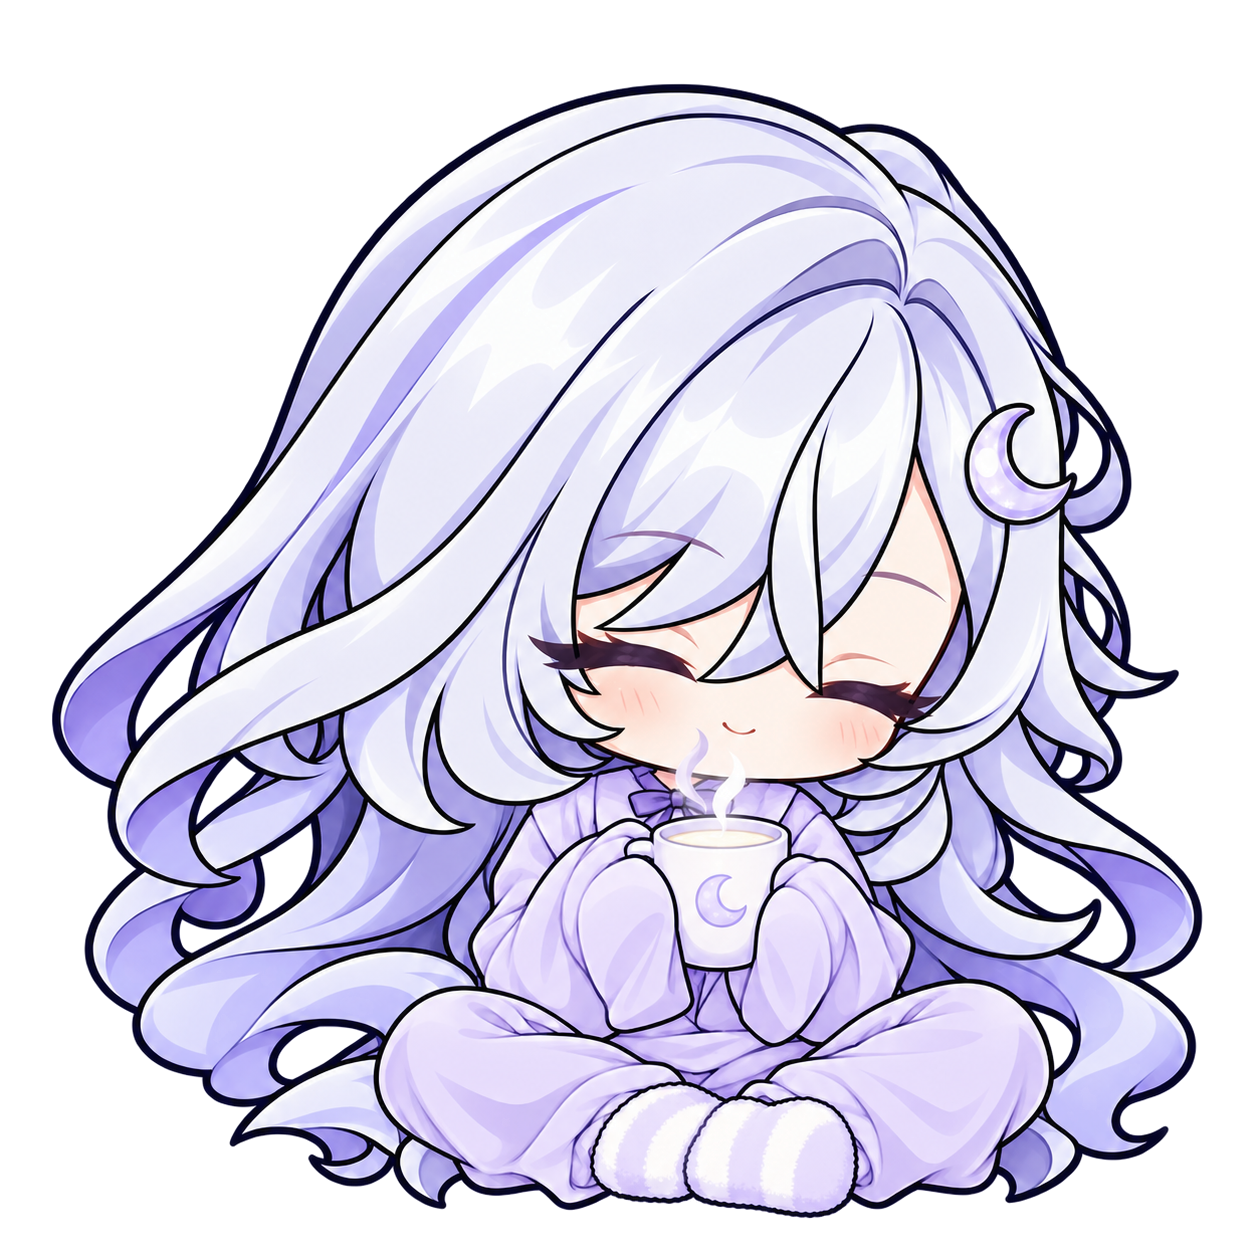
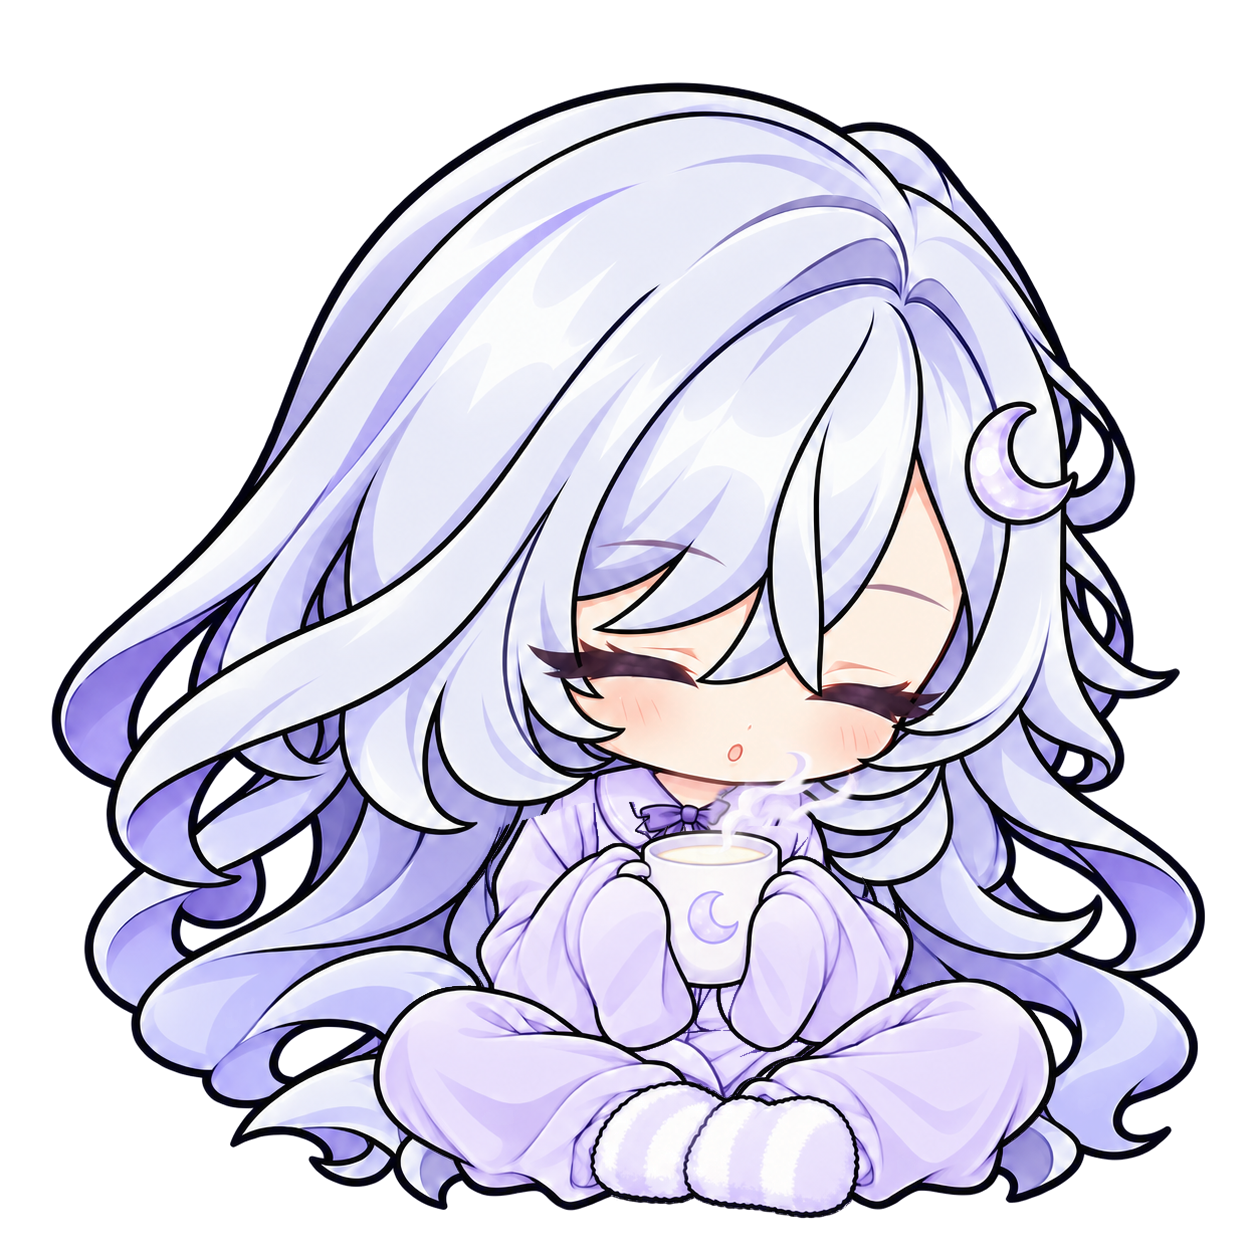
art: animate warm milk from chest-level blow to raised sip

diff --git a/assets/v2_3/GENERATION.md b/assets/v2_3/GENERATION.md
@@ -7,7 +7,7 @@
 - 角色绘制及局部重绘使用imagegen。用户已授权Pillow做局部蒙版合成、alpha清理、基线注册与对比图拼接；没有用程序重画角色。
 - 主参考是实际原始坐着抱膝的 `assets/v1_1/idle.png`，原文件未改。沿用已验收 `night_idle_1` 的银白淡紫卷发、大头比例、靛色描边、淡紫长袖/长裤、毛绒袜、月亮发夹及月亮抱枕。
 - 只有新姿势母图做一次居中/基线注册；派生动画帧不独立缩放或重新居中。
-- 裁剪局部交给imagegen绘制后，按原坐标蒙版合回父图。牛奶热气补丁采用不透明内部裁剪，避免生成器把脸部误当背景挖空；最终PNG仍使用父帧原alpha，是真正透明RGBA。
+- 裁剪局部交给imagegen绘制后，按原坐标蒙版合回父图。2026-10-09牛奶原版曾采用不透明内部热气裁剪；2026-10-10牛奶改为两种独立姿势图层与共用底图，详见末尾当前记录。最终PNG均为真正透明RGBA。
 
 ## 换装与衔接（本次用户要求优先于旧文档）
 
@@ -23,7 +23,7 @@
 | night_idle | 4+眨眼 | 已验收5张不改 |
 | night_yawn | 2 | 袖子掩嘴、轻微张口；保留眼角泪光 |
 | night_sleep | 3 | 侧躺抱枕，呼吸袖褶、Zzz上飘14px、小幅收腿翻身蹭枕头 |
-| night_milk | 2 | 双袖捧杯；第2帧仅热气变化，杯子和手臂不动 |
+| night_milk | 2 | 胸前捧杯嘟嘴吹气→双袖举杯到嘴边小口喝；杯子抬高约130px，脸微抬、热气改为上飘 |
 | night_read | 2+眨眼 | 盖小被子趴着看图画书，后脚轻踢，眨眼只改眼部 |
 | night_goodnight | 2 | 一袖向外举高→整臂向内大幅摆回约43°，另一袖抱枕；星星换位变小 |
 | night_wake | 2 | 起身揉眼，头发微乱，枕头滑到腿上；第2帧袖子/枕头轻动 |
@@ -34,7 +34,7 @@
 
 ## 2026-10-09整套交付时的静态检查
 
-以下为b933221交付检查；2026-10-10重做的晚安两帧以本文末尾的新检查和SHA256为准。
+以下为b933221交付检查；2026-10-10重做的晚安及牛奶两帧以本文末尾对应的新检查和SHA256为准。
 
 - 25/25：1254×1254、PNG、RGBA、真实alpha通道；不是棋盘格或白底图。
 - 17/17局部合成：有效蒙版外RGBA变化为0，包含4张换装、既有4张待机派生及其余局部动画帧。两个眨眼图仅眼部变动。
@@ -67,8 +67,8 @@ Pillow `(left, top, right, bottom)`，右/下边界不包含。
 | `night_sleep_1.png` | `(40, 329, 1214, 1219)` | 全姿势母图 |
 | `night_sleep_2.png` | `(40, 329, 1214, 1219)` | night_sleep_1 |
 | `night_sleep_3.png` | `(33, 330, 1220, 1219)` | night_sleep_1 |
-| `night_milk_1.png` | `(51, 83, 1203, 1219)` | 全姿势母图 |
-| `night_milk_2.png` | `(51, 83, 1203, 1219)` | night_milk_1 |
+| `night_milk_1.png` | `(51, 82, 1206, 1219)` | 共用静态母图 + 手臂/杯子/表情/热气图层（2026-10-10） |
+| `night_milk_2.png` | `(51, 82, 1206, 1219)` | 共用静态母图 + 手臂/杯子/表情/热气图层（2026-10-10） |
 | `night_read_1.png` | `(40, 212, 1214, 1219)` | 全姿势母图 |
 | `night_read_2.png` | `(40, 212, 1233, 1219)` | night_read_1 |
 | `night_read_blink.png` | `(40, 212, 1214, 1219)` | night_read_1 |
@@ -80,7 +80,7 @@ Pillow `(left, top, right, bottom)`，右/下边界不包含。
 ## 交付与恢复
 
 - 图文件：`assets/v2_3/`，完整25张。对比图：`docs/V2_3_ART_PREVIEW.png`，浅紫底#D0CCE4，整张画布等比展示，附128px深底检查。
-- 完整提示词、参考、父帧、蒙版多边形、alpha bbox、SHA256及校验结果见 `GENERATION.json`。
+- 2026-10-09历史批次的完整提示词、参考、父帧、蒙版多边形、alpha bbox、SHA256及校验结果见 `GENERATION.json`。2026-10-10重画的晚安与牛奶以末尾当前记录及各自恢复目录为准。
 - 本批恢复目录：`D:\Documents\ChatGPT\petoken-takeover-backups\v2.3-art-batch2`，含原始生成、局部参考、蒙版、脚本、validation.json及PROGRESS.md。第一批原4张换装已被本次替换，旧记录仍在original-firstbatch中。
 - 下一步由用户验收第二批；本地提交到codex/v2.3-art，不合并、不推送。
 
@@ -115,3 +115,50 @@ Pillow `(left, top, right, bottom)`，右/下边界不包含。
 - 当前选用生成源：共用底图`C:\Users\fengz\.codex\generated_images\01a0d97f-5017-71c2-8ba4-181bc329b670\exec-dc2431ae-4fc0-41da-94ee-cb5f8c55439d.png`；帧1手臂/星星`C:\Users\fengz\.codex\generated_images\01a0d97f-5017-71c2-8ba4-181bc329b670\exec-3b67832b-b676-40c5-a71d-1ba0130a0bc7.png`；帧2手臂/星星`C:\Users\fengz\.codex\generated_images\01a0d97f-5017-71c2-8ba4-181bc329b670\exec-82d99ab1-550a-417b-ba40-4772e5486618.png`。
 - 不合格局部底图和首次合成保留在恢复目录供追溯，不作为交付。
 - 静态美术验证完成，未改动画播放节奏或运行时实现。本地提交codex/v2.3-art，不合并、不推送，等待用户确认新挥手效果。
+
+## 2026-10-10 · 热牛奶动作重画
+
+本节取代b933221中的两张牛奶图。只修改night_milk_1.png、night_milk_2.png、本文件和docs/V2_3_ART_PREVIEW.png。不新增眨眼、不改其他动作或代码。
+
+### 制作方式与动作
+
+- 角色与姿势仍由内置imagegen绘制，非程序绘制：以原night_milk_1为风格参考，先绘制胸前吹气帧，再以其为参考绘制举杯喝奶帧；另生成移除杯子、手臂和热气的共用静态底图。
+- 使用已获授权的Pillow提取袖子、杯子、表情与热气图层，并叠到同一份底图。腿部使用同一份保护图层，主体卷发、月亮发夹、身体及衣服底图固定；前景袖子/杯子只改变遮挡关系。中间刘海使用固定保护蒙版恢复，脸部接缝用同一生成脸上的皮肤小补片合成修复。
+- 两帧只对共用底图做一次y=-1px基线注册；图层使用相同坐标，无独立居中或缩放。
+- 第1帧双袖捧杯放在胸前，低头嘟嘴吹气，与杯沿保留间距，热气偏向画面右侧。第2帧双臂举杯到嘴边小口喝，眼睛满足地眯起、脸部微抬，热气上飘。
+- 原牛奶动作没有枕头，本次也没有添加枕头。杯子沿用白色杯身及淡紫月亮图案；睡衣仍是淡紫配色、深色描边、柔和赛璐璐上色。
+
+### 当前验证
+
+- 2/2：1254×1254、RGBA透明PNG，四条画布边缘alpha均为0，最低有效像素均为y=1218。没有白底、文字、地面或新增眨眼图。
+- 两帧有效手臂/袖子/杯子、脸部、热气蒙版联合区域以外，RGBA变化像素为0。整个y>=1062的身体下部/腿/脚区域变化为0；未被前景遮挡的腿部保护区也为0。
+- 固定中间刘海保护区变化为0；头顶y<450及两侧主卷发区域（x<450或x>=977、450<=y<1062）变化为0。头部动作表现为眼睑与脸部略抬，头发主体不移动。
+- alpha>0连通块检查无小于24像素的离散脏点；已经查看浅紫底大图、脸部/袖口/杯子放大图与128px深底缩略图。
+- 人工标注的杯身框（不含热气/手部）为[[653, 832, 781, 986], [668, 702, 809, 857]]；杯身中心分别[[717.0, 909.0], [738.5, 779.5]]，向上移动约129.5px。此为二维图片估算，不是骨骼测量。
+- 整张1254²画布按RGBA任一通道变化计数：178023像素，约11.32%。
+
+| 当前文件 | SHA256 | Alpha bbox |
+|---|---|---|
[2 lines of base64/hex data omitted]
+
+### 提示词与追溯
+
+以下为当前选用imagegen原始提示词（英文）；图层合成后交付为上述两个PNG。
+
+#### 胸前吹气
+
+> Edit this exact transparent chibi pajama sprite for the first frame of drinking warm milk. Output ONE full1254x1254 transparent RGBA sprite at precisely same framing. Preserve character silver-white lavender curls, moon hair clip, lavender moon pajamas and bow, crossed legs and fluffy white slippers, black lineart and soft cel-shading. Change only arms/sleeves,mug,face and steam. BOTH sleeve-covered hands cradle SAME white crescent-decorated mug LOW at chest: mug top approximately y930, bottom1050, centerx720 in1254px canvas. She tips face slightly down toward the mug, sleepy squinted eyes and little PURSED o-shaped lips BLOW gently downward toward the milk. Two small soft wisps of steam bend conspicuously sideways toward viewer right. Arms extend down slightly to hold low mug, wrists almost covered by loose sleeves. Chest and sleeves match reference. Keep outer hair mass, head outline, seated body and legs fixed in the original position. This is blow on milk, not drink yet: leave a clear gap between lips and cup. No new props, no pillow, no text, no floor, no background. Do not crop any hair or feet. Feet lowest point1218. No blink variant. Faithfully same drawing style.
+
+#### 举杯小口喝
+
+> Create second animation frame by editing this EXACT transparent sprite. SAME1254x1254 character canvas; same silver-lavender long curls, moon hairclip, lavender pajamas and crossed legs/slippers. NOW raise BOTH sleeve-covered arms and the SAME white crescent mug to her MOUTH for a small sip. Move mug clearly UP about150pixels: brim touches lower lip aroundy710, cupbottomaroundy860; cup must visually cover lower face partially. Both large lavender sleeves raised into a V, elbows remain near torso atapprox(530,990) and(875,990), coveredhands support cup atcheeklevel. Head/face slightly lifts, eyes crinkle in contented closed sleepy smile with happy blush. Steam floats vertically above cup onviewer right side without obscuring eyes. Crucial large motion from earlier chest position, actually drinks rather than holding cup belowchin. Preserve same outer hair mass and hair edges, unchanged crosslegs, shoes, pajama torso and bow style. Keep uniformblack lineart, lavendercelshading. No text, no extra objects, no pillow,no ground; transparent background. No crop. Feetminy1218.
+
+#### 共用静态底图
+
+> Precise object-removal edit of this sprite to make the shared static underpainting for animation. ONE1254x1254 transparent RGBA. Remove the cup, BOTH entire arms and sleeves, and ALL steam. Restore the pajama torso behind removed cup/arms, exactly matching pale lavender pajama cloth, small tied dark lavender collarbow,2 small pale buttons and moon-themed print. Arms are hidden behind her back and should NOT be visible anywhere, no hands. Preserve character crossedlegs and slippers, hairmassand curls, head face expression, moonhairclip, and outer silhouette exactly like image1. Restore natural hair strands where sleeves were hiding them. This must look like exact same seatedgirl withhands hiddenbehindback, no objects. No steam, cup, extra props, pillow, written words. Sameblackoutlinecelshading. No moved feet, no recenter, no resizing. Retain fullytransparentbackground, lowestfootpixel1218. This underpaintingwill becovered by newarm/muglayers; no other redesign.
+
+- 选用源：吹气 `C:\Users\fengz\.codex\generated_images\01a0d97f-5017-71c2-8ba4-181bc329b670\exec-f9662c18-c8e3-4307-af44-571495c4b7eb.png`；喝奶 `C:\Users\fengz\.codex\generated_images\01a0d97f-5017-71c2-8ba4-181bc329b670\exec-a4685983-39b5-4bed-80c4-ad0687652fbb.png`；底图 `C:\Users\fengz\.codex\generated_images\01a0d97f-5017-71c2-8ba4-181bc329b670\exec-d7730038-95d0-4bec-a3aa-4a15fc7f8401.png`。
+- 恢复目录：`D:\Documents\ChatGPT\petoken-takeover-backups\v2.3-milk-sip`，包括原图备份、sources.json、compose.py、图层和保护蒙版、validate.py、validation.json、两帧GIF预览、全部资产基线SHA及PROGRESS.md。
+- GENERATION.json是2026-10-09历史记录，按本次四文件范围未修改。其牛奶条目的旧SHA、热气限定蒙版及旧验证不适用于当前两张图；以本节为准。
+- 已完成静态美术及帧差检查。没有修改或验证运行时动画逻辑、播放速度；应用接入由维护者负责。状态为WAITING_FOR_HUMAN_ART_QA，本地提交codex/v2.3-art，不合并、不推送。
